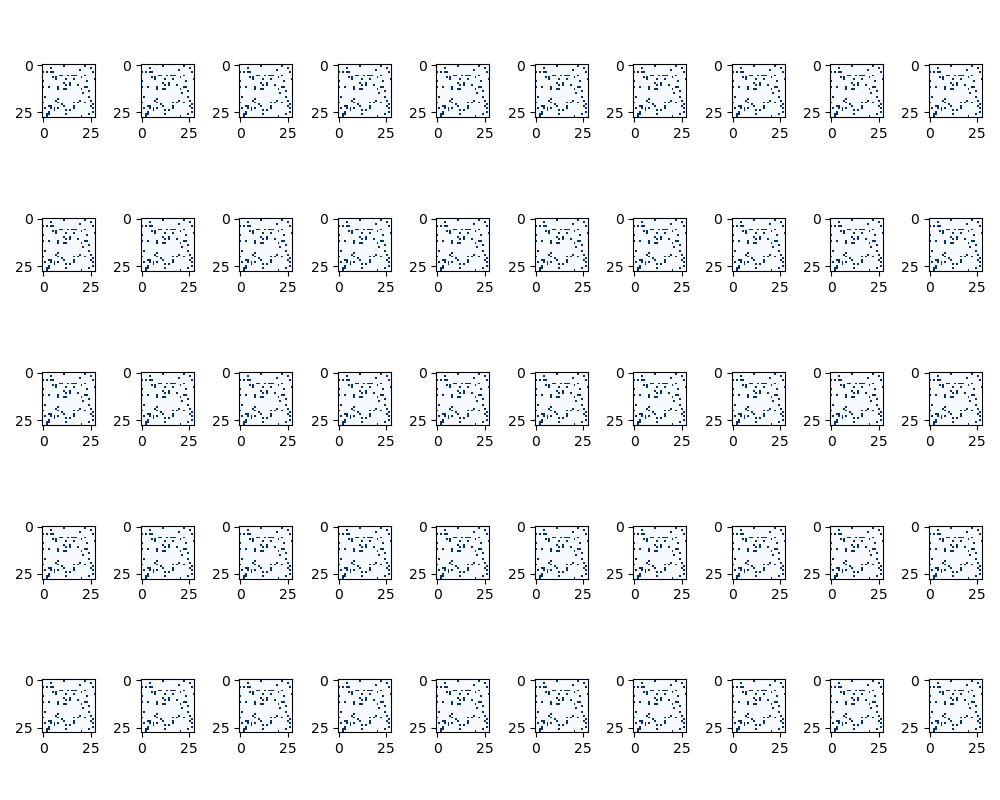
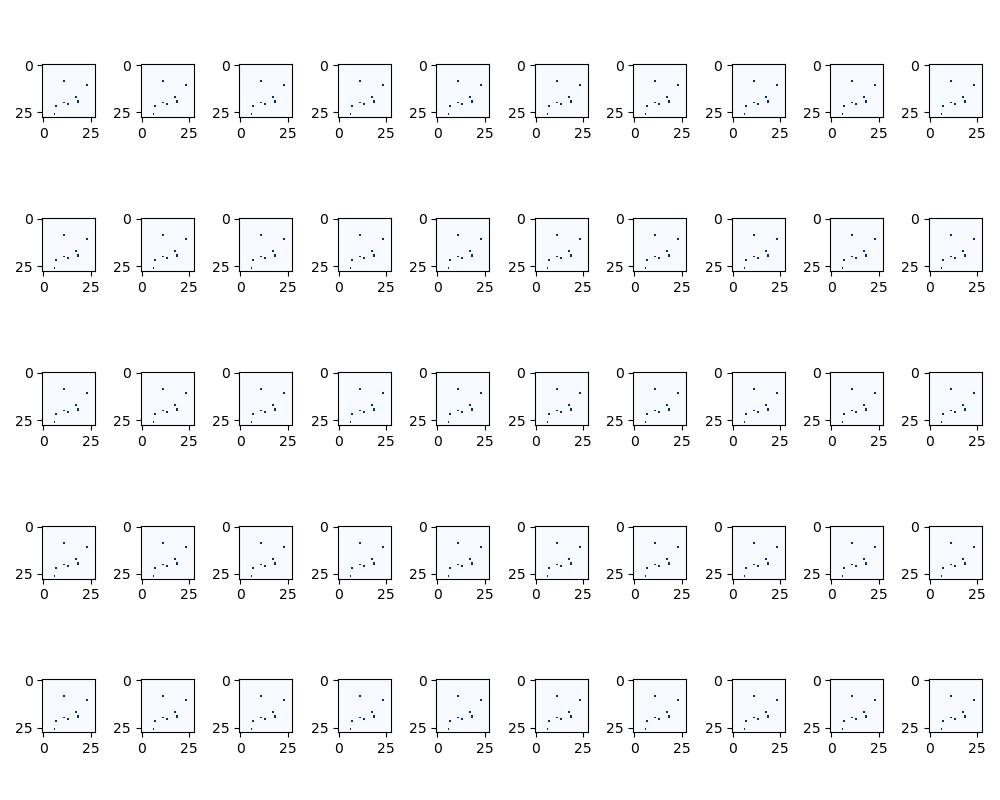
新增CPU版本的成功demo

diff --git a/AI-Stu/03-GenerativeAdversarialNetwork/handwrite_number_gen1/DemoCPU/TrainGAN.py b/AI-Stu/03-GenerativeAdversarialNetwork/handwrite_number_gen1/DemoCPU/TrainGAN.py
@@ -1,0 +1,102 @@
+import torch
+from matplotlib import pyplot as plt
+
+from DemoCPU.Discriminator import Discriminator
+from DemoCPU.Generator import Generator
+from DemoCPU.MnistDataset import MnistDataset
+from DemoCPU.RandTools import generate_random_seed
+
+D = Discriminator()
+G = Generator()
+
+epochs = 4
+
+mnist_dataset = MnistDataset(root='./data', train=True, download=True)
+
+for epoch in range(epochs):
+    print("epoch = ", epoch + 1)
+
+    # train Discriminator and Generator
+
+    for label, image_data_tensor, target_tensor in mnist_dataset:
+        # train discriminator on true
+        D.train(image_data_tensor, torch.FloatTensor([1.0]))
+
+        # train discriminator on false
+        # use detach() so gradients in G are not calculated
+        D.train(G.forward(generate_random_seed(100)).detach(), torch.FloatTensor([0.0]))
+
+        # train generator
+        G.train(D, generate_random_seed(100), torch.FloatTensor([1.0]))
+
+        pass
+
+    pass
+
+D.plot_progress()
+G.plot_progress()
+
+#------------------------------------------------------------------------------------
+
+f, axarr = plt.subplots(2,3, figsize=(16,8))
+for i in range(2):
+    for j in range(3):
+        output = G.forward(generate_random_seed(100))
+        img = output.detach().numpy().reshape(28,28)
+        axarr[i,j].imshow(img, interpolation='none', cmap='Blues')
+        pass
+    pass
+plt.show()
+
+#------------------------------------------------------------------------------------
+
+
+seed1 = generate_random_seed(100)
+out1 = G.forward(seed1)
+img1 = out1.detach().numpy().reshape(28,28)
+plt.imshow(img1, interpolation='none', cmap='Blues')
+plt.show()
+#------------------------------------------------------------------------------------
+seed2 = generate_random_seed(100)
+out2 = G.forward(seed2)
+img2 = out2.detach().numpy().reshape(28,28)
+plt.imshow(img2, interpolation='none', cmap='Blues')
+plt.show()
+
+#------------------------------------------------------------------------------------
+
+count = 0
+
+# plot a 3 column, 2 row array of generated images
+f, axarr = plt.subplots(3,4, figsize=(16,8))
+for i in range(3):
+    for j in range(4):
+        seed = seed1 + (seed2 - seed1)/11 * count
+        output = G.forward(seed)
+        img = output.detach().numpy().reshape(28,28)
+        axarr[i,j].imshow(img, interpolation='none', cmap='Blues')
+        count = count + 1
+        pass
+    pass
+plt.show()
+
+#------------------------------------------------------------------------------------
+
+seed3 = seed1 + seed2
+out3 = G.forward(seed3)
+img3 = out3.detach().numpy().reshape(28,28)
+plt.imshow(img3, interpolation='none', cmap='Blues')
+plt.show()
+
+#------------------------------------------------------------------------------------
+seed4 = seed1 - seed2
+out4 = G.forward(seed4)
+img4 = out4.detach().numpy().reshape(28,28)
+plt.imshow(img4, interpolation='none', cmap='Blues')
+plt.show()
+#------------------------------------------------------------------------------------
+seed4 = seed1 * seed2
+out4 = G.forward(seed4)
+img4 = out4.detach().numpy().reshape(28,28)
+plt.imshow(img4, interpolation='none', cmap='Blues')
+plt.show()

diff --git a/AI-Stu/03-GenerativeAdversarialNetwork/handwrite_number_gen1/DemoCPU/Discriminator.py b/AI-Stu/03-GenerativeAdversarialNetwork/handwrite_number_gen1/DemoCPU/Discriminator.py
@@ -1,0 +1,96 @@
+import random
+
+import pandas
+import torch
+from matplotlib import pyplot as plt
+from torch import nn
+
+from DemoCPU.MnistDataset import MnistDataset
+from DemoCPU.RandTools import generate_random_image
+
+
+class Discriminator(nn.Module):
+
+    def __init__(self):
+        # initialise parent pytorch class
+        super().__init__()
+
+        # define neural network layers
+        self.model = nn.Sequential(
+            nn.Linear(784, 200),
+            nn.LeakyReLU(0.02),
+
+            nn.LayerNorm(200),
+
+            nn.Linear(200, 1),
+            nn.Sigmoid()
+        )
+
+        # create loss function
+        self.loss_function = nn.BCELoss()
+
+        # create optimiser, simple stochastic gradient descent
+        self.optimiser = torch.optim.Adam(self.parameters(), lr=0.0001)
+
+        # counter and accumulator for progress
+        self.counter = 0
+        self.progress = []
+
+        pass
+
+    def forward(self, inputs):
+        # simply run model
+        return self.model(inputs)
+
+    def train(self, inputs, targets):
+        # calculate the output of the network
+        outputs = self.forward(inputs)
+
+        # calculate loss
+        loss = self.loss_function(outputs, targets)
+
+        # increase counter and accumulate error every 10
+        self.counter += 1;
+        if (self.counter % 10 == 0):
+            self.progress.append(loss.item())
+            pass
+        if (self.counter % 10000 == 0):
+            print("counter = ", self.counter)
+            pass
+
+        # zero gradients, perform a backward pass, update weights
+        self.optimiser.zero_grad()
+        loss.backward()
+        self.optimiser.step()
+
+        pass
+
+    def plot_progress(self):
+        df = pandas.DataFrame(self.progress, columns=['loss'])
+        df.plot(ylim=(0), figsize=(16, 8), alpha=0.1, marker='.', grid=True, yticks=(0, 0.25, 0.5, 1.0, 5.0))
+        plt.show()
+        pass
+
+    pass
+
+
+def test():
+    mnist_dataset = MnistDataset(root='./data', train=True, download=True)
+    D = Discriminator()
+    for label, image_data_tensor, target_tensor in mnist_dataset:
+        # real data
+        D.train(image_data_tensor, torch.FloatTensor([1.0]))
+        # fake data
+        D.train(generate_random_image(784), torch.FloatTensor([0.0]))
+        pass
+    D.plot_progress()
+    for i in range(4):
+        image_data_tensor = mnist_dataset[random.randint(0, 60000)][1]
+        print(D.forward(image_data_tensor).item())
+        pass
+
+    for i in range(4):
+        print(D.forward(generate_random_image(784)).item())
+        pass
+
+

diff --git a/AI-Stu/03-GenerativeAdversarialNetwork/handwrite_number_gen1/DemoCPU/Generator.py b/AI-Stu/03-GenerativeAdversarialNetwork/handwrite_number_gen1/DemoCPU/Generator.py
@@ -1,0 +1,76 @@
+import pandas
+import torch
+from matplotlib import pyplot as plt
+from torch import nn
+
+from DemoCPU.RandTools import generate_random_seed
+
+
+class Generator(nn.Module):
+
+    def __init__(self):
+        # initialise parent pytorch class
+        super().__init__()
+
+        # define neural network layers
+        self.model = nn.Sequential(
+            nn.Linear(100, 200),
+            nn.LeakyReLU(0.02),
+
+            nn.LayerNorm(200),
+
+            nn.Linear(200, 784),
+            nn.Sigmoid()
+        )
+
+        # create optimiser, simple stochastic gradient descent
+        self.optimiser = torch.optim.Adam(self.parameters(), lr=0.0001)
+
+        # counter and accumulator for progress
+        self.counter = 0
+        self.progress = []
+
+        pass
+
+    def forward(self, inputs):
+        # simply run model
+        return self.model(inputs)
+
+    def train(self, D, inputs, targets):
+        # calculate the output of the network
+        g_output = self.forward(inputs)
+
+        # pass onto Discriminator
+        d_output = D.forward(g_output)
+
+        # calculate error
+        loss = D.loss_function(d_output, targets)
+
+        # increase counter and accumulate error every 10
+        self.counter += 1
+        if (self.counter % 10 == 0):
+            self.progress.append(loss.item())
+            pass
+
+        # zero gradients, perform a backward pass, update weights
+        self.optimiser.zero_grad()
+        loss.backward()
+        self.optimiser.step()
+
+        pass
+
+    def plot_progress(self):
+        df = pandas.DataFrame(self.progress, columns=['loss'])
+        df.plot(ylim=(0), figsize=(16, 8), alpha=0.1, marker='.', grid=True, yticks=(0, 0.25, 0.5, 1.0, 5.0))
+        plt.show()
+        pass
+
+    pass
+
+
+def test():
+    G = Generator()
+    output = G.forward(generate_random_seed(100))
+    img = output.detach().numpy().reshape(28, 28)
+    plt.imshow(img, interpolation='none', cmap='Blues')
+    plt.show()

diff --git a/AI-Stu/03-GenerativeAdversarialNetwork/handwrite_number_gen1/DemoCPU/MnistDataset.py b/AI-Stu/03-GenerativeAdversarialNetwork/handwrite_number_gen1/DemoCPU/MnistDataset.py
@@ -1,0 +1,29 @@
+import numpy as np
+from torchvision.datasets import MNIST
+import torch
+import matplotlib.pyplot as plt
+
+
+class MnistDataset(MNIST):
+    def __getitem__(self, index):
+        img, label = super().__getitem__(index)
+        target = torch.zeros((10))
+        target[label] = 1.0
+        # image data, normalised from 0-255 to 0-1
+        img_array = np.array(img).reshape(-1)
+        image_values = torch.FloatTensor(img_array) / 255.0
+        return label, image_values, target
+
+    def plot_image(self, index):
+        img, label = super().__getitem__(index)
+        plt.title("label = " + str(label))
+        plt.imshow(img, interpolation='none', cmap='Blues')
+        pass
+
+    pass
+
+
+def test():
+    mnist_dataset = MnistDataset(root='./data', train=True, download=True)
+    mnist_dataset.plot_image(17)
+    plt.show()

diff --git a/AI-Stu/03-GenerativeAdversarialNetwork/handwrite_number_gen1/NumGanModelTrain2.py b/AI-Stu/03-GenerativeAdversarialNetwork/handwrite_number_gen1/NumGanModelTrain2.py
@@ -19,7 +19,7 @@ true_dataloader = DataLoader(true_dataset, batch_size=1, shuffle=True)
 
 # 训练轮次，数据集上全部训练一遍为一轮
 Gan = NumGanModel4()
-train_times = 10
+train_times = 20
 Gan.TrainModel(train_times, true_dataloader)
 
 Gan.GenModel.eval()

diff --git a/AI-Stu/03-GenerativeAdversarialNetwork/handwrite_number_gen1/DemoCPU/RandTools.py b/AI-Stu/03-GenerativeAdversarialNetwork/handwrite_number_gen1/DemoCPU/RandTools.py
@@ -1,0 +1,12 @@
+# functions to generate random data
+import torch
+
+
+def generate_random_image(size):
+    random_data = torch.rand(size)
+    return random_data
+
+
+def generate_random_seed(size):
+    random_data = torch.randn(size)
+    return random_data
